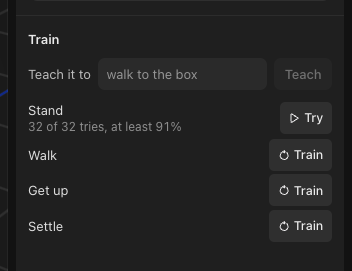
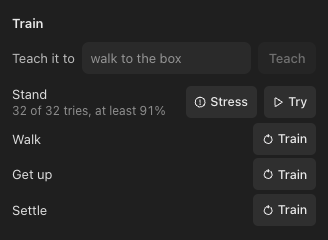
Cut the Stress e2e to one story on a planted ready Stand
The review lane blocked the 'stressing Stand' e2e test. It trained Stand
through Arena, stressed it, replayed a finding and then retrained it, all
under a 480 s timeout, which the testing guide forbids.

The test now plants a ready Stand holding a 28° crouch through a new
__studio.plantStand hook. The hook builds readyStand from
hubSkillFixtures.ts on the scene's own model, with Arena evidence made in
code. The test then runs Stress Stand from ⌘K at the minimum 24
rollouts, clicks the finding and checks the sim's physics, all within the
default timeout. stressTraining.test.ts and skillsRuntime.test.ts
already cover Train on These.

Also moves the findings screenshot under step 3 of Find where a skill
breaks, and says Arena checks tries "near normal physics" in the
changelog instead of "near the floor it trained on". Recaptures the
ready-row screenshots in Install a skill from Hugging Face and Publish a
skill to Hugging Face, since a ready row now shows Stress beside Try.

diff --git a/e2e/skills.e2e.test.ts b/e2e/skills.e2e.test.ts
@@ -28,6 +28,7 @@ type Studio = {
   stubTrainer: (policy: unknown, snapshots?: unknown[]) => void;
   releaseTrainer: () => void;
   stressBudget: (rollouts: number) => void;
+  plantStand: (policy: unknown) => Promise<string>;
 };
 
 const trainedSteps = () =>
@@ -337,13 +338,12 @@ describe('watching Stand learn', () => {
 const AXIS_WORDS = { friction: 'friction', mass: 'weight', strength: 'strength', latencyMs: 'latency' } as const;
 
 describe('stressing Stand', () => {
-  it('finds where it falls, replays that run in the live sim, and trains on it to a new skill', async () => {
+  it('finds where a ready Stand falls and replays that run in the live sim', async () => {
     const robot = fixtureRobots().find((r) => r.id === 'quad-servo')!;
     const model = fixtureModel('quad-servo');
-    const job = kitJob(model, 'stand', { minutes: 1, seed: 0 });
     const crouch = offsetPose(model, 28);
     const crouched = holdPolicy({
-      ...job,
+      ...kitJob(model, 'stand', { minutes: 1, seed: 0 }),
       defaultPose: kitRobot(model).joints.map((id) => ((crouch.values[id] ?? 0) * Math.PI) / 180),
     });
     const physics = () =>
@@ -355,25 +355,18 @@ describe('stressing Stand', () => {
     const row = app.page.locator(visible('[data-testid="skill-row"]'), { hasText: 'Stand' }).first();
 
     await expect.poll(() => row.count(), { timeout: 60000 }).toBe(1);
-    await app.page.route(
-      (url) => url.pathname === '/api/bridge/skill',
-      (route) => {
-        const saved = app.posts.filter((p) => p.route === 'skill-save').at(-1)?.body as { text?: string } | undefined;
 
-        return route.fulfill({ status: 200, contentType: 'application/json', body: saved?.text ?? '{}' });
-      },
-    );
-    await app.page.evaluate(
-      (policy) => (window as unknown as { __studio: Studio }).__studio.stubTrainer(policy),
+    const skill = await app.page.evaluate(
+      (policy) => (window as unknown as { __studio: Studio }).__studio.plantStand(policy),
       crouched,
     );
-    await row.locator('button', { hasText: 'Train' }).click();
-    await expect.poll(() => row.innerText(), { timeout: 150000 }).toContain('of 32 tries');
 
-    const first = await row.getAttribute('data-skill');
-
-    expect(first).toMatch(/^[0-9a-f]{64}$/);
-    await app.page.evaluate(() => (window as unknown as { __studio: Studio }).__studio.stressBudget(40));
+    await app.page.route(
+      (url) => url.pathname === '/api/bridge/skill',
+      (route) => route.fulfill({ status: 200, contentType: 'application/json', body: skill }),
+    );
+    await expect.poll(() => row.innerText(), { timeout: 60000 }).toContain('of 32 tries');
+    await app.page.evaluate(() => (window as unknown as { __studio: Studio }).__studio.stressBudget(24));
     await app.page.keyboard.press('Meta+k');
     await expect.poll(() => app.page.evaluate(() => document.activeElement?.tagName)).toBe('INPUT');
     await app.page.keyboard.type('Stress Stand');
@@ -381,7 +374,7 @@ describe('stressing Stand', () => {
 
     const finding = row.getByTestId('stress-finding').first();
 
-    await expect.poll(() => finding.count(), { timeout: 150000 }).toBe(1);
+    await expect.poll(() => finding.count(), { timeout: 60000 }).toBe(1);
 
     const words = (await finding.innerText()).toLowerCase();
 
@@ -394,19 +387,6 @@ describe('stressing Stand', () => {
 
     for (const axis of moved) expect(words).toContain(AXIS_WORDS[axis]);
 
-    await app.page.evaluate(
-      (policy) => (window as unknown as { __studio: Studio }).__studio.stubTrainer(policy),
-      holdPolicy(job),
-    );
-    await row.locator('button', { hasText: 'Train on These' }).click();
-
-    const retrained = async () => {
-      const hash = await row.getAttribute('data-skill');
-
-      return !!hash && hash !== first && (await row.innerText()).includes('of 32 tries');
-    };
-
-    await expect.poll(retrained, { timeout: 240000 }).toBe(true);
     expect(app.errors).toEqual([]);
-  }, 480000);
+  });
 });

diff --git a/src/workspace/devStudioApi.ts b/src/workspace/devStudioApi.ts
@@ -91,6 +91,7 @@ export interface DevActions {
   sharedLink: () => string | null;
   stubTrainer: (policy: unknown, snapshots?: unknown[]) => void;
   releaseTrainer: () => void;
+  plantStand: (policy: unknown) => Promise<string>;
   stubHandoffs: (stub: HandoffStub) => void;
   plantHandoff: (from: string, to: string, falls: number) => Promise<void>;
   robotPackage: () => Promise<{ files: Record<string, Uint8Array>; simXml: string } | null>;
@@ -217,6 +218,15 @@ function operatorCameraState() {
   };
 }
 
+const skillStudioApi = (devRef: RefObject<DevActions>) => ({
+  stubTrainer: (policy: unknown, snapshots?: unknown[]) => devRef.current.stubTrainer(policy, snapshots),
+  releaseTrainer: () => devRef.current.releaseTrainer(),
+  plantStand: (policy: unknown) => devRef.current.plantStand(policy),
+  stubHandoffs: (stub: HandoffStub) => devRef.current.stubHandoffs(stub),
+  plantHandoff: (from: string, to: string, falls: number) => devRef.current.plantHandoff(from, to, falls),
+  stressBudget: (rollouts: number) => setStressBudget(rollouts),
+});
+
 export function devStudioApi({ partsRef, projectRef, viewportRef, devRef }: DevStudioDeps) {
   return {
     rangeClashes: () => rangeClashes(partsRef.current, projectRef.current, viewportRef.current),
@@ -303,10 +313,7 @@ export function devStudioApi({ partsRef, projectRef, viewportRef, devRef }: DevS
     codeReports: () => devRef.current.codeReports(),
     referenceTry: () => devRef.current.referenceTry(),
     sharedLink: () => devRef.current.sharedLink(),
-    stubTrainer: (policy: unknown, snapshots?: unknown[]) => devRef.current.stubTrainer(policy, snapshots),
-    releaseTrainer: () => devRef.current.releaseTrainer(),
-    stubHandoffs: (stub: HandoffStub) => devRef.current.stubHandoffs(stub),
-    plantHandoff: (from: string, to: string, falls: number) => devRef.current.plantHandoff(from, to, falls),
+    ...skillStudioApi(devRef),
     attachRobot: (link: RobotLinkApi) => startRobotStore(link),
     phone: () => phoneSnapshot(),
     feedPose: (samples: PoseSample[], fps?: number) => feedOperatorPose(samples, fps),
@@ -317,7 +324,6 @@ export function devStudioApi({ partsRef, projectRef, viewportRef, devRef }: DevS
     cameraStreams: () => ({ ...streamCost }),
     stubTabEngine,
     exploreLimit: (designs: number) => limitExplore(designs),
-    stressBudget: (rollouts: number) => setStressBudget(rollouts),
     pickFiles: (files: { name: string; base64: string }[]) =>
       pickNextFiles(
         files.map(({ name, base64 }) => new File([Uint8Array.from(atob(base64), (c) => c.charCodeAt(0))], name)),

diff --git a/src/workspace/useDevStudioHook.ts b/src/workspace/useDevStudioHook.ts
@@ -7,6 +7,10 @@ import { codePanelKey, codeReport } from '../cases/console/codeReports';
 import { parseCase } from '../cases/schema';
 import { loadRecording } from '../cases/tryStore';
 import { withCalibration } from '../reality/projectCalibrations';
+import { isPolicySpec } from '../sim/policy';
+import { readyStand } from '../skills/hubSkillFixtures';
+import { skillRecord, withRecord } from '../skills/skillRecords';
+import { designOf } from '../skills/skillsRuntime';
 import { exposesTestHooks } from '../utils/platform/testHooks';
 import { useLatestRef } from '../utils/useLatestRef';
 import { printDevActions } from './devPrintState';
@@ -107,6 +111,16 @@ export function useDevStudioHook({ active, core, actions, agent, routeFiles }: D
       releaseTrainer.current = stub.release;
     },
     releaseTrainer: () => releaseTrainer.current(),
+    plantStand: async (policy) => {
+      if (!isPolicySpec(policy)) throw new Error('plantStand takes a policy.');
+
+      const model = await core.simTraining.skills.buildModel();
+      const skill = readyStand(model, designOf(model), policy);
+
+      docs.setProject((p) => ({ ...p, skills: withRecord(p.skills ?? [], skillRecord(skill, { kit: 'stand' })) }));
+
+      return JSON.stringify(skill);
+    },
     stubHandoffs: (stub) => core.simTraining.routines.handoffs.stub(stub),
     plantHandoff: (from, to, falls) => core.simTraining.routines.handoffs.plant({ from, to }, falls),
     robotPackage: async () => {

diff --git a/src/skills/hubSkillFixtures.ts b/src/skills/hubSkillFixtures.ts
@@ -47,9 +47,12 @@ export function holdingPolicy(job: Record<string, unknown>, gain = 0): PolicySpe
 
 const VARIANTS: ArenaVariant[] = ['held-out', 'half-timestep', 'latency'];
 
-export function readyStand(model: SimModel, design: string): Skill {
+export function readyStand(
+  model: SimModel,
+  design: string,
+  policy: PolicySpec = holdingPolicy(kitJob(model, 'stand', { minutes: 1, seed: 1 })),
+): Skill {
   const environment = kitEnvironment(model, 'stand');
-  const policy = holdingPolicy(kitJob(model, 'stand', { minutes: 1, seed: 1 }));
   const current = currentDesign({ design, model, environment });
   const controller = { kind: 'policy' as const, policy, robot: kitRobot(model).key };
   const trained = skillFromTraining({ name: 'Stand', start: null, current, environment, controller });

diff --git a/docs/guide/skills.md b/docs/guide/skills.md
@@ -59,7 +59,7 @@ Arena says whether a skill passes; Stress says where it stops passing. `stressSk
 - **The search:** nominal first. Each axis gets an even share of 60% of the budget: both limits, then `cem()` along that axis (4 samples, 2 elites, in units of the limit span), then up to 5 bisections between nominal and the axis's worst point. The boundary is interpolated linearly inside the last bracket. The joint search spends the rest: `cem()` over all four axes from each axis's worst value (8 samples, 3 elites).
 - **The result:** each axis's side (`below` or `above` nominal) and boundary (`null` when it holds across its limits), the worst combination, the start poses, every point in order (`trace`) and up to three findings, worst margin first. A finding is an axis with a boundary, or the combination when it fails, moves two or more axes and is worse than every axis alone. A finding keeps its point and start, so a replay runs exactly that try.
 - **Budget** counts rollouts: 160 by default (`STRESS_BUDGET`), clamped to 24–2000, never exceeded. On the M5 Pro in Node, quad-servo's Stand takes 17 s at the default budget (160 rollouts of 6 s) and the hexapod's 34 s.
-- **What the fixtures show:** a hold holds quad-servo's Stand across every limit, and a 28° crouch on quad-servo passes Arena 32 of 32 in every variant and falls past ×1.94 mass, which Stress finds at the default budget and at 40 rollouts. A zero-weight policy holding the same crouch (the e2e's Stand) holds ×2 weight alone, and Stress finds it falling at ×2 weight, ×1.5 friction and 40% strength together. At a 30° crouch the fixtures use 3–10% of their servos' force (the weak quad 44%), so strength, friction and latency barely move a hold. The tests plant bars on signals that do respond (`stressFixtures.ts`): knee effort for mass, a weak quad's sag for strength, a ramped arm joint for latency, and a hexapod's shuffle, which slides further on lower friction.
+- **What the fixtures show:** a hold holds quad-servo's Stand across every limit, and a 28° crouch on quad-servo passes Arena 32 of 32 in every variant and falls past ×1.94 mass, which Stress finds at the default budget and at 40 rollouts. The e2e's Stand, a zero-weight policy holding the same crouch, falls at ×2 weight within Stress's minimum 24 rollouts, about 2 s in Node. At a 30° crouch the fixtures use 3–10% of their servos' force (the weak quad 44%), so strength, friction and latency barely move a hold. The tests plant bars on signals that do respond (`stressFixtures.ts`): knee effort for mass, a weak quad's sag for strength, a ramped arm joint for latency, and a hexapod's shuffle, which slides further on lower friction.
 - **Train on These** (`stressTraining.ts`): `widenedEnvironment` widens each failing axis's range to cover its failing values, clamped to the limits; a combination widens every axis it moved. `stressJob` is the Kit entry's or move's own job at its schedule's last stage, warm-started from the skill's policy (`warmPolicy`, `logStdMin` −2.5). `forgeConditions` sends Forge only the widened axes as `randomization` (§8g), starting from Forge's defaults, and raises `delaySteps` to cover the delay (20 ms a step, up to 8). Forge can't vary force limits per robot, so strength trains as its servo stiffness range. `trainOnFindings` proves the result with `proveSkill` on the widened environment, so Arena's draws include the failing values. The new skill is saved only when Arena passes it, with `warmStartFrom` naming the old one; otherwise the old skill stays and the reason is Arena's summary.
 
 ### Method Router (`router.ts`)
@@ -152,7 +152,7 @@ In the app (`src/workspace/useSkills.ts`) the scene model is rebuilt 1.5 s after
 - **The skills list** (`skillRows.ts`): one row per Kit entry (Stand, Walk, Get up, Settle), per move and per taught skill (a skill Train from Tries kept is one, named after its Case), each training (with the job's message and share), ready (its worst Arena variant: “31 of 32 tries, at least 86%”), recheck or untrained.
 - **Snapshots** (`snapshots.ts`): `trainerForge` relays the trainer's `snapshot` events as `onSnapshot` for user and Kit jobs; the tab engine has none. `SkillsRuntime` keeps a trail per row across every Forge run of its job, thinned to 12 by Forge's own rule (drop the interior snapshot whose neighbours are closest in write order; the first and the newest stay), and puts the newest on the training row (`SkillJob.snapshot`), which the canvas plays (§8d). When the job ends in a skill, the trail goes through `keepSnapshots`, and the `SkillRecord` lists what was copied as `snapshots: [{ run, iteration, steps }]`, with no weights. A ready row shows them as buttons labelled with their iteration; a click loads the kept copy and runs it in the live sim like Try. A recheck's new record keeps none.
 - **Stress in the app** (§8i Stress): a ready row has Stress beside Try or Drive, and ⌘K lists Stress ⟨skill⟩ for each ready row (`workspace/skillCommands.tsx`). `useSkillStress` loads the skill and its environment (`rowEnvironment`, `stressRuns.ts`) and `SkillsRuntime.stress` runs `stressSkill` as the row's user job in the skills worker (`skillsJob.ts` `stress`), so the row shows Stressing… with Stop, which ends the worker. The budget is `STRESS_BUDGET` unless `__studio.stressBudget(n)` set one. The result goes on the same `SkillRecord` as `stress: { seed, budget, rollouts, findings }`, without the trace, and the ready row carries its `findings` (`skillRows`). A row with findings lists one ghost button each, in numbers (`stressWords.ts`: “Friction < 0.62”, “Weight > ×1.30”, “Strength < 62%”, “Latency > 60 ms”, a combination as “Friction 0.31, weight ×1.80” naming only the axes it moved), then the margin; a click starts the live sim if it's off, sets the finding's physics (`sim.setPhysics`), the skill's controller and the finding's start pose (`sim.reset(start)`). Try and snapshot playback set physics back to nominal. Stress (`StressBench`) and the replay both run the scene model at its own timestep, never Arena's half-timestep variant, so a click replays the try Stress ran; a change to the world Stress runs has to move the replay with it. A stress that finds nothing leaves the row as it was, with no findings listed.
-- **Train on These** shows under the findings, and in ⌘K as Train ⟨skill⟩ on These, on desktop only (the tab engine can't warm-start) for a Kit entry or move whose saved controller is a policy (`useSkillStress` loads it to check). `SkillsRuntime.trainOnStress` runs `stress-train` in the worker (`stressJob`, then `trainOnFindings` through the row's Forge), keeps a passing skill as a new record with the Kit or move tag and the widened ranges as `randomization` (`retrainedRecord`, `stressRuns.ts`), and leaves the old one when Arena refuses. `recordEnvironment` and `rowEnvironment` put those ranges back on the rebuilt Kit or move environment, so a later Recheck and the next Stress run on the ranges the skill was kept on; the refusal toasts “Kept the old ⟨skill⟩.” with Arena's summary or Forge's error. The agent's `stress_skill` (§9) runs the same `stress` and answers in numbers (`stressReport`). `e2e/skills.e2e.test.ts` trains Stand on a 28° crouch stub, stresses it from ⌘K at 40 rollouts, replays the weight finding and checks the sim's physics, then trains on it with a straight-legged stub and sees the row's `data-skill` hash change.
+- **Train on These** shows under the findings, and in ⌘K as Train ⟨skill⟩ on These, on desktop only (the tab engine can't warm-start) for a Kit entry or move whose saved controller is a policy (`useSkillStress` loads it to check). `SkillsRuntime.trainOnStress` runs `stress-train` in the worker (`stressJob`, then `trainOnFindings` through the row's Forge), keeps a passing skill as a new record with the Kit or move tag and the widened ranges as `randomization` (`retrainedRecord`, `stressRuns.ts`), and leaves the old one when Arena refuses. `recordEnvironment` and `rowEnvironment` put those ranges back on the rebuilt Kit or move environment, so a later Recheck and the next Stress run on the ranges the skill was kept on; the refusal toasts “Kept the old ⟨skill⟩.” with Arena's summary or Forge's error. The agent's `stress_skill` (§9) runs the same `stress` and answers in numbers (`stressReport`). `e2e/skills.e2e.test.ts` plants a ready Stand holding a 28° crouch (`__studio.plantStand`, which builds `readyStand` from `hubSkillFixtures.ts` on the scene's model with Arena evidence made in code), stresses it from ⌘K at 24 rollouts, replays the finding and checks the sim's physics. Train on These is covered by `stressTraining.test.ts` and `skillsRuntime.test.ts`.
 
 ### Publishing and installing (`hubSkill.ts`, `robotSchema.ts`, `policyMap.ts`)
 

diff --git a/site/content/help/find-where-a-skill-breaks.md b/site/content/help/find-where-a-skill-breaks.md
@@ -35,11 +35,12 @@ Train on These needs the desktop app, and only retrains Motor Kit skills and mov
 1. In **Simulate**, find a ready skill in the **Train** section. Its row shows its Arena result.
 2. Click **Stress** on the row. The search runs up to 160 tries and takes about 15 seconds for Stand on a quadruped.
 3. Read the findings under the row. Each gives the value where the skill starts failing, such as **Weight > ×1.94**, or a combination that fails, and the margin of its worst try.
+
+![A ready Stand row with a failing combination of friction, weight and strength, and Train on These](/help/find-where-a-skill-breaks/findings.png)
+
 4. Click a finding to replay its worst try in the live sim, under that friction, weight, strength and latency. The sim keeps them through **Reset** until you click **Stop simulation** or **Try**.
 5. Click **Train on These** to retrain the skill with those values added to its training ranges.
 6. Wait for Arena to judge the new skill on the wider ranges. It replaces the old one only if it passes; otherwise the old skill stays and a message gives Arena's count.
-
-![A ready Stand row with a failing combination of friction, weight and strength, and Train on These](/help/find-where-a-skill-breaks/findings.png)
 
 A row with no findings held across every limit: friction 0.2 to 1.5 times, weight 0.5 to 2 times, servo strength 40% to 120% and servo latency up to 150 ms.
 

diff --git a/site/content/changelog/2026-11-13-stress-a-skill-to-find-where-it-breaks.md b/site/content/changelog/2026-11-13-stress-a-skill-to-find-where-it-breaks.md
@@ -6,7 +6,7 @@ image: /changelog/stress-a-skill-to-find-where-it-breaks/cover.png
 
 You can now stress a ready skill to find the friction, weight, servo strength and latency where it starts failing. Train on These then retrains it on those values and proves it again in Arena.
 
-Stress sits on every ready row in Simulate's Train section, and in ⌘K. Arena only says a skill passes 96 tries near the floor it trained on. A Stand can pass Arena and still fall the day the robot carries a heavier battery. On our test quadruped, a Stand holding a 28° crouch passes Arena. Stress found it falls at 1.94 times its weight.
+Stress sits on every ready row in Simulate's Train section, and in ⌘K. Arena only says a skill passes 96 tries near normal physics. A Stand can pass Arena and still fall the day the robot carries a heavier battery. On our test quadruped, a Stand holding a 28° crouch passes Arena. Stress found it falls at 1.94 times its weight.
 
 Stress searches past Arena's ranges up to fixed limits. Friction runs 0.2 to 1.5 times, weight 0.5 to 2 times, servo strength 40% to 120% and latency up to 150 ms. It judges every try with the skill's own contract. The default search runs 160 tries, about 15 seconds for a quadruped's Stand. The row lists up to three findings as numbers, and clicking one replays its worst try in the live sim.
 
